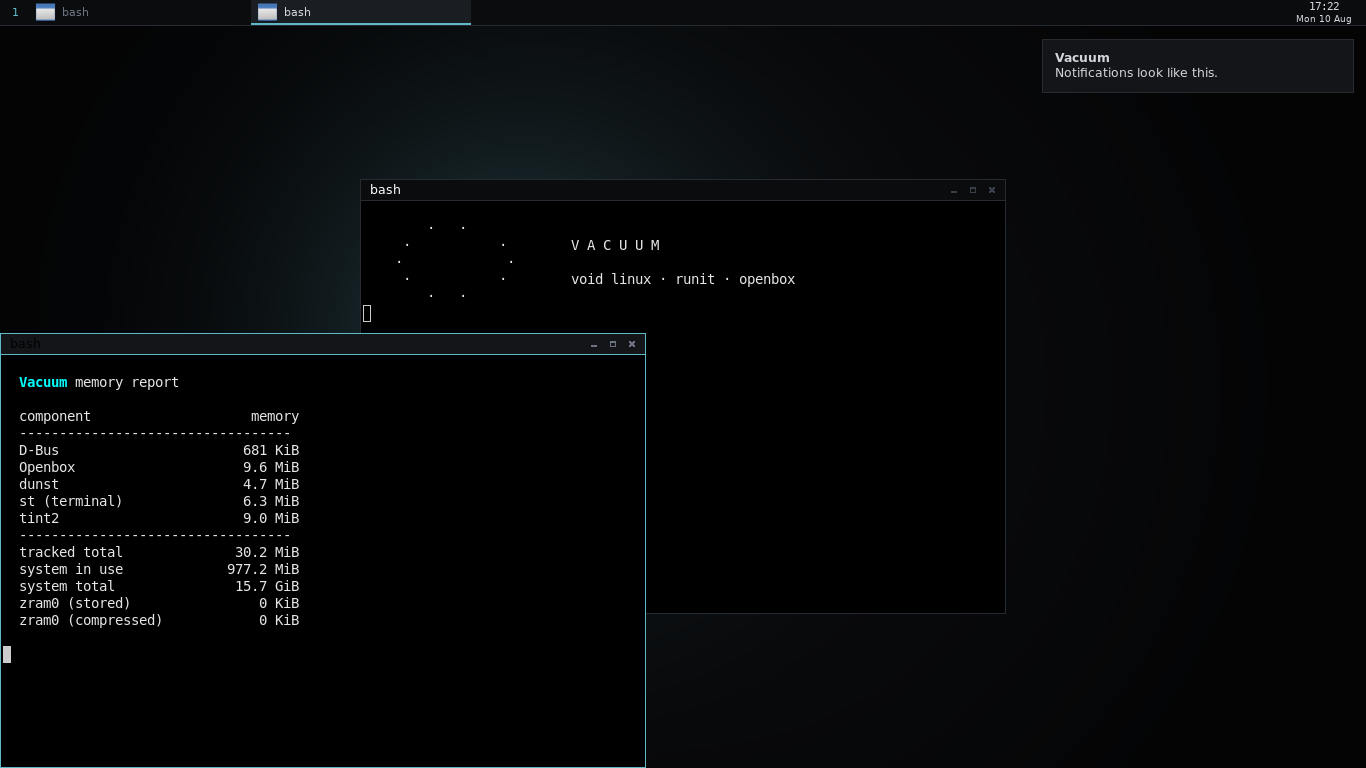
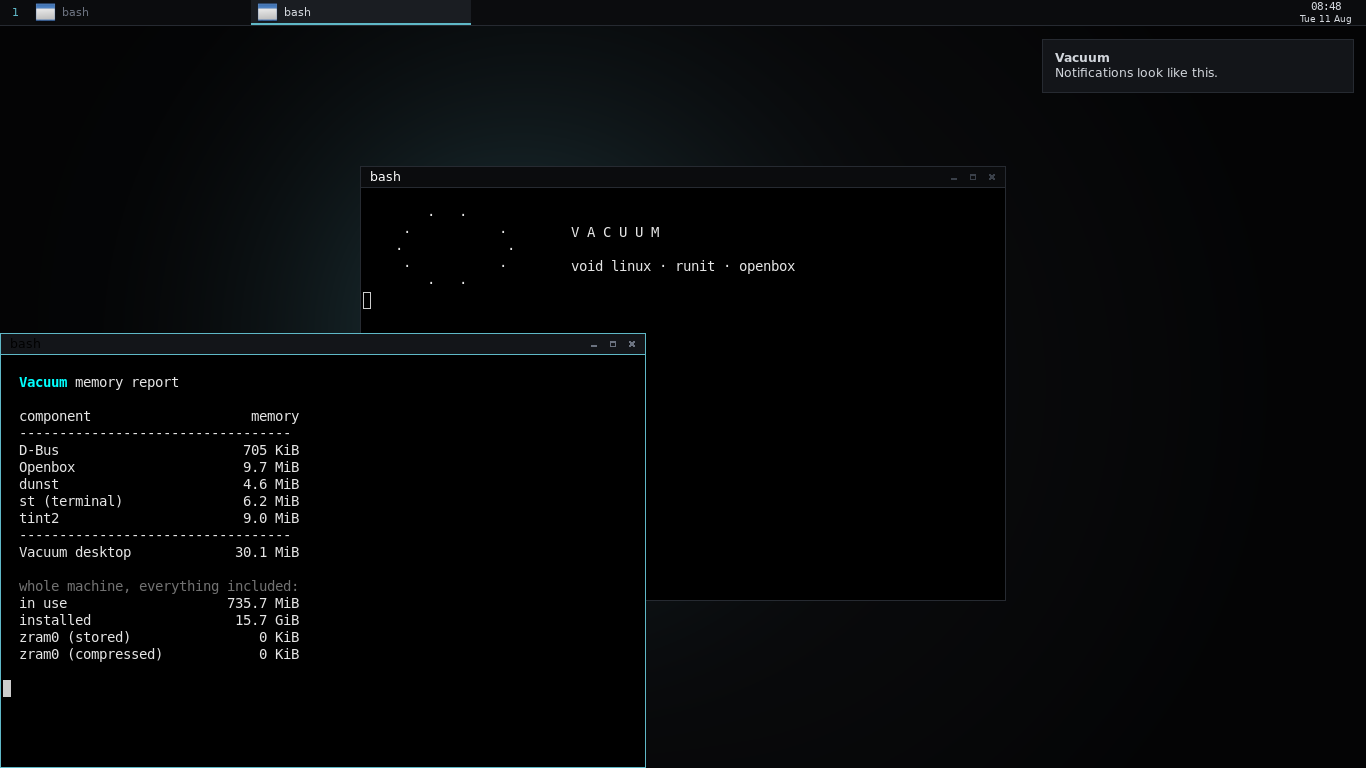
Add a preview loop: screenshot the desktop in seconds instead of an ISO
Nearly every change made to this repo so far was a file under rootfs/ —
theme colours, panel position, keybindings, the vacuum-* tools — and every
one of them was verified by rebuilding a 1.5 GB ISO. mklive copies rootfs/
in at the very end, so those thirty-minute rebuilds were spent almost
entirely on steps the change could not affect.

./preview.sh renders the working tree under Xvfb in a container that stays
warm between runs. First call installs the environment (~90s); after that a
screenshot takes 1-3 seconds. Six scenes cover what is worth looking at:
the desktop, the root menu (opened with a real Super+space, so the binding
is exercised too), the launcher, pcmanfm for the GTK dark theme, a single
terminal, and the bare wallpaper and panel.

Two details worth keeping:

The X server is not restarted between renders — nothing Vacuum owns lives
in it, and reusing it is most of the speed. Everything else is torn down
and recreated from rootfs/ on every run, so a screenshot cannot show stale
state.

Readiness is probed with `xset q`, not xdpyinfo. xdpyinfo was not installed
here, so the original wait loop could never succeed and burned its entire
timeout on every render — which is what first looked like a slow X server.
The setup marker is versioned so existing containers reinstall when the
package list changes, rather than silently missing a new tool.

Claude-Session: https://claude.ai/code/session_016WREeSjKZUrsfHggoZAYFG

diff --git a/README.md b/README.md
@@ -26,6 +26,42 @@ host, not to Vacuum — the figure to read is the desktop total.*
 
 ---
 
+## See a change without building anything
+
+Most of what Vacuum is — the theme, the panel, notifications, keybindings,
+the `vacuum-*` tools — lives under `rootfs/`, which `mklive` copies in at
+the very end of a build. Rebuilding a 1.5 GB ISO to look at a colour is
+half an hour spent on steps that have nothing to do with the change.
+
+`./preview.sh` renders the working tree under Xvfb in a container that
+stays warm between runs, and writes a PNG:
+
+```sh
+./preview.sh              # desktop: two terminals and a notification
+./preview.sh menu         # the root menu, opened with a real Super+space
+./preview.sh dmenu        # the launcher
+./preview.sh files        # pcmanfm, to check the GTK dark theme
+./preview.sh term         # one terminal
+./preview.sh clean        # wallpaper and panel only
+
+./preview.sh --size 1920x1080 menu
+./preview.sh --stop       # drop the warm container
+```
+
+First call takes about a minute and a half to install the environment.
+Every call after that is **1–3 seconds**. Renders land in `preview/`.
+
+Configs are copied in fresh on every run and the session is restarted, so a
+screenshot always shows the current working tree. The X server is the one
+thing kept alive between runs — nothing Vacuum owns lives in it.
+
+It also reports parse errors from Openbox and the autostart script: a
+screenshot that looks right can still be hiding a config that failed to load
+and silently fell back to a default.
+
+What it does not cover: Xorg on real hardware, runit services, and anything
+that happens before the session starts. Those still need an ISO.
+
 ## Build it
 
 The build must run on Void, because it uses `xbps` to populate a chroot. On
@@ -207,9 +243,11 @@ pages lazily, so an untouched device is nearly free. Tune it in
 
 ```
 build.sh                  host entry point: wraps the build in a container
+preview.sh                screenshot the desktop in seconds, no ISO needed
 mk/
   build-in-container.sh   the actual build; POSIX sh, runs on Void
   postsetup.sh            runs against the finished rootfs before initramfs
+  preview-session.sh      the render, inside the preview container
   patches/                applied to the pinned void-mklive checkout
   gen-wallpaper.py        regenerates the wallpaper, no dependencies
   palette.sh              the palette, in one place
